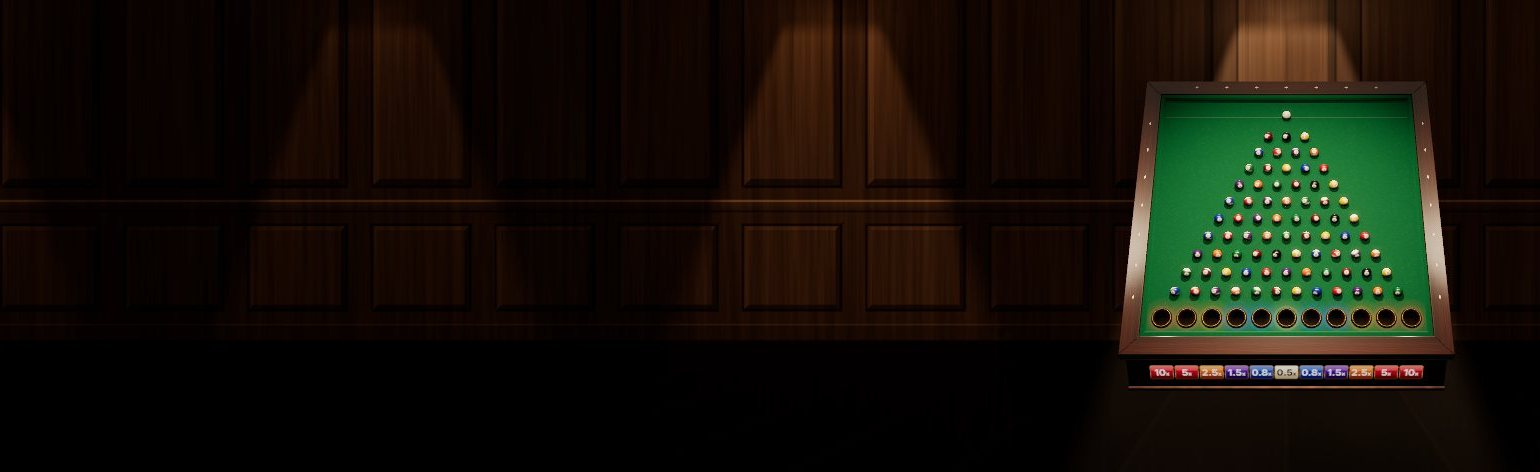
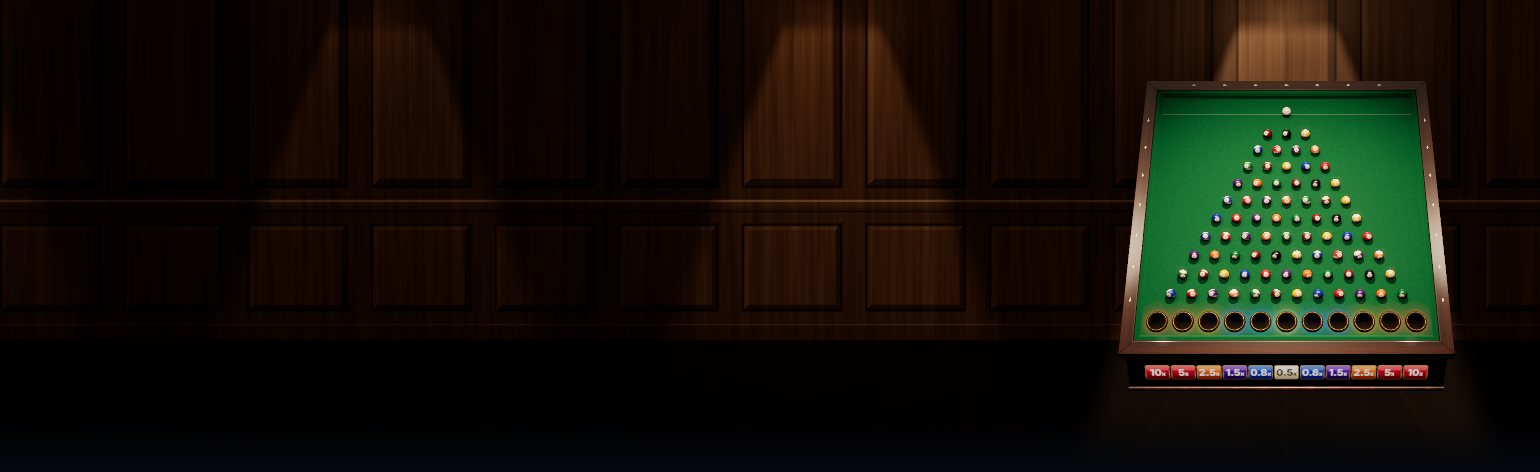
Widen the Plinko boards on phones with a 12px gutter for every title, slim Plinko Billiards' rails, drop the rows count from the risk menu, and remove the temporary Preview strip

Changed region(s): [[0.7169, 0.178, 0.9351, 0.7415], [0.7169, 0.7712, 0.9351, 0.8305]]

diff --git a/frontend/src/pages/GamePage.tsx b/frontend/src/pages/GamePage.tsx
@@ -145,31 +145,28 @@ export function GamePage() {
           </>
         }
         controls={
-          <>
-            <BetPanel
-              stakeMinor={stakeMinor}
-              setStakeMinor={setStakeMinor}
-              balance={wallet ? money(wallet.balance_minor, wallet.currency) : null}
-              currency={currency}
-              minMinor={limits.min_wager_minor}
-              maxMinor={limits.max_wager_minor}
-              stepMinor={limits.wager_step_minor}
-              session={module ? session : null}
-              paramsSlot={
-                module ? (
-                  <module.Controls
-                    params={session.params}
-                    onChange={session.setParams}
-                    disabled={!session.canChangeParams}
-                    board={session.board}
-                  />
-                ) : null
-              }
-              shortfall={shortfall}
-              onShortfall={setShortfall}
-            />
-            {module ? <EffectsPreview session={session} stakeMinor={stakeMinor} /> : null}
-          </>
+          <BetPanel
+            stakeMinor={stakeMinor}
+            setStakeMinor={setStakeMinor}
+            balance={wallet ? money(wallet.balance_minor, wallet.currency) : null}
+            currency={currency}
+            minMinor={limits.min_wager_minor}
+            maxMinor={limits.max_wager_minor}
+            stepMinor={limits.wager_step_minor}
+            session={module ? session : null}
+            paramsSlot={
+              module ? (
+                <module.Controls
+                  params={session.params}
+                  onChange={session.setParams}
+                  disabled={!session.canChangeParams}
+                  board={session.board}
+                />
+              ) : null
+            }
+            shortfall={shortfall}
+            onShortfall={setShortfall}
+          />
         }
       />
 
@@ -178,36 +175,6 @@ export function GamePage() {
       </div>
 
       <FairGameDialog open={fairGame} onClose={() => setFairGame(false)} session={module ? session : null} />
-    </div>
-  )
-}
-
-// Temporary: one button per payout on the chosen risk, each dropping a ball that no
-// round settled so the landing effects can be seen without a bet. Remove with
-// `previewDrop` in the game session.
-function EffectsPreview({ session, stakeMinor }: { session: GameSession; stakeMinor: number }) {
-  const payouts = session.board?.[session.params.risk]
-  if (!payouts) return null
-  const half = payouts.slice(0, Math.ceil(payouts.length / 2))
-
-  return (
-    <div
-      role="group"
-      aria-label="Preview landing effects"
-      className="mt-2 flex flex-wrap items-center gap-1.5 rounded-card border border-hairline-soft bg-inset px-2.5 py-2"
-    >
-      <span className="label-mono mr-1 text-[10px] text-ink-cool">Preview</span>
-      {half.map((hundredths, slot) => (
-        <Button
-          key={slot}
-          size="sm"
-          variant="secondary"
-          className="tnum"
-          onClick={() => session.previewDrop(Math.random() < 0.5 ? slot : payouts.length - 1 - slot, stakeMinor)}
-        >
-          {formatMultiplier(hundredths)}
-        </Button>
-      ))}
     </div>
   )
 }
@@ -221,7 +188,7 @@ function FairGameDialog({ open, onClose, session }: { open: boolean; onClose: ()
         {session && payouts ? (
           <div className="flex flex-col gap-2">
             <dt className="text-ink-mute">
-              Payouts · {session.params.rows} rows · {riskLabels[session.params.risk]}
+              Payouts · {riskLabels[session.params.risk]}
             </dt>
             <dd className="grid grid-cols-3 gap-1.5 min-[400px]:grid-cols-5">
               {payouts.map((hundredths, slot) => (

diff --git a/frontend/src/pages/GamePage.test.tsx b/frontend/src/pages/GamePage.test.tsx
@@ -71,7 +71,7 @@ async function untilDropped(post: ReturnType<typeof vi.spyOn>) {
 }
 
 function riskButton() {
-  return screen.getByRole('button', { name: /10 rows ·/ })
+  return screen.getByRole('button', { name: /^(Low|Normal|High)$/ })
 }
 
 function lastDrop(post: ReturnType<typeof vi.spyOn>) {
@@ -112,7 +112,7 @@ describe('the Plinko game page', () => {
     expect(configure.multipliers_hundredths).toEqual(plinkoManifest().multipliers_hundredths['10']?.normal)
     expect(configure.sound).toBe(true)
     expect(screen.queryByRole('status', { name: 'Loading Plinko' })).not.toBeInTheDocument()
-    expect(riskButton()).toHaveTextContent('10 rows · Normal')
+    expect(riskButton()).toHaveTextContent('Normal')
   })
 
   it('tells the frame where the board sits once it is ready', async () => {
@@ -173,7 +173,7 @@ describe('the Plinko game page', () => {
         window.location.origin,
       ),
     )
-    expect(riskButton()).toHaveTextContent('10 rows · High')
+    expect(riskButton()).toHaveTextContent('High')
     expect(window.localStorage.getItem('game.plinko.risk')).toBe('high')
   })
 
@@ -232,23 +232,6 @@ describe('the Plinko game page', () => {
     const loss = lastDrop(post)!
     expect(loss.multiplier_hundredths).toBeLessThan(100)
     expect(loss.result_label).toMatch(/^₱/)
-  })
-
-  it('previews a landing without placing a bet', async () => {
-    const user = userEvent.setup()
-    const { post } = await readyBoard()
-    const before = rounds.length
-    const preview = screen.getByRole('group', { name: 'Preview landing effects' })
-
-    await user.click(within(preview).getByRole('button', { name: '10.00×' }))
-
-    const drop = lastDrop(post)!
-    expect(drop.round_id).toMatch(/^preview-/)
-    expect(drop.multiplier_hundredths).toBe(1000)
-    expect([0, 10]).toContain(drop.slot)
-    expect(drop.result_label).toBe('+₱10.00')
-    expect(rounds).toHaveLength(before)
-    expect(wallets.find((wallet) => wallet.currency === 'PHP')!.balance_minor).toBe(startingBalance)
   })
 
   it('places a bet with the space bar', async () => {
@@ -351,7 +334,7 @@ describe('the Plinko game page', () => {
     const dialog = screen.getByRole('dialog', { name: 'Fair game' })
     expect(within(dialog).queryByText('95.00%')).not.toBeInTheDocument()
     expect(within(dialog).queryByText(/return to player/i)).not.toBeInTheDocument()
-    expect(within(dialog).getByText('Payouts · 10 rows · Normal')).toBeInTheDocument()
+    expect(within(dialog).getByText('Payouts · Normal')).toBeInTheDocument()
     expect(within(dialog).getAllByText(formatMultiplier(1000))).toHaveLength(2)
   })
 
@@ -371,7 +354,7 @@ describe('the Plinko game page', () => {
     vi.useFakeTimers({ shouldAdvanceTime: true })
     await openPlinko()
 
-    await vi.advanceTimersByTimeAsync(10_100)
+    await vi.advanceTimersByTimeAsync(30_100)
 
     expect(await screen.findByRole('alert')).toHaveTextContent('too long to respond')
     expect(screen.getByRole('button', { name: 'Try again' })).toBeInTheDocument()

diff --git a/frontend/src/features/gameplay/session.ts b/frontend/src/features/gameplay/session.ts
@@ -43,9 +43,6 @@ export type GameSession = {
   playing: boolean
   sound: boolean
   setSound: (enabled: boolean) => void
-  // Temporary: drops a ball into `slot` that no round settled, to show the frame's
-  // landing effects. Nothing is staked, paid, or sent to the server.
-  previewDrop: (slot: number, stakeMinor: number) => void
 }
 
 type GameSessionOptions = {
@@ -241,26 +238,6 @@ export function useGameSession({ module, slug, currency, onShortfall }: GameSess
     if (status === 'ready') bridgeRef.current?.send({ v: PROTOCOL_VERSION, type: 'set_sound', enabled: sound })
   }, [status, sound])
 
-  const previewDrop = useCallback(
-    (slot: number, stakeMinor: number) => {
-      const { params, status, boards } = latest.current
-      const multiplier = boards?.board[params.risk][slot]
-      if (status !== 'ready' || multiplier === undefined) return
-      const label = formatMoney(money(Math.floor((stakeMinor * multiplier) / 100), currency), {
-        sign: multiplier >= 100 ? 'always' : 'auto',
-      })
-      bridgeRef.current?.send({
-        v: PROTOCOL_VERSION,
-        type: 'drop',
-        round_id: `preview-${createUUID()}`,
-        slot,
-        multiplier_hundredths: multiplier,
-        result_label: label,
-      })
-    },
-    [currency],
-  )
-
   const play = useCallback(
     async (stakeMinor: number) => {
       const { status: frameStatus, module: active, params: current, boards: served } = latest.current
@@ -366,6 +343,5 @@ export function useGameSession({ module, slug, currency, onShortfall }: GameSess
     playing: playLocked,
     sound,
     setSound,
-    previewDrop,
   }
 }

diff --git a/frontend/src/pages/GamePage.live.test.tsx b/frontend/src/pages/GamePage.live.test.tsx
@@ -115,7 +115,7 @@ describe('Plinko against a server without the play endpoint', () => {
 
     expect(await screen.findByText("This game isn't available right now.")).toBeInTheDocument()
     expect(posted(post, 'drop')).toHaveLength(0)
-    expect(screen.getByRole('button', { name: /10 rows ·/ })).toBeEnabled()
+    expect(screen.getByRole('button', { name: /^(Low|Normal|High)$/ })).toBeEnabled()
     expect(screen.getByRole('button', { name: 'PLACE BET' })).toBeEnabled()
 
     const play = fetchMock.mock.calls.find(([, init]) => init?.method === 'POST')
@@ -264,7 +264,7 @@ describe('Plinko when the RTP changes mid-session', () => {
     await waitFor(() =>
       expect(queryClient.getQueryData(['game-manifest', 'plinko'])).toMatchObject({ rtp_basis_points: 10500 }),
     )
-    expect(screen.getByRole('button', { name: /10 rows ·/ })).toBeDisabled()
+    expect(screen.getByRole('button', { name: /^(Low|Normal|High)$/ })).toBeDisabled()
     expect(posted(post, 'configure')).toHaveLength(1)
 
     frameSays(iframe, { v: 3, type: 'landed', round_id: 'round-live-1', slot: 5 })

diff --git a/frontend/src/features/gameplay/RiskMenu.tsx b/frontend/src/features/gameplay/RiskMenu.tsx
@@ -5,7 +5,6 @@ import { cn } from '@/lib/cn'
 import { formatMultiplier } from '@/lib/format'
 
 import {
-  PLINKO_BOARD_ROWS,
   PLINKO_RISKS,
   riskLabels,
   summarizePlinko,
@@ -79,7 +78,7 @@ export function RiskMenu({ params, onChange, disabled, board }: GameControlsProp
           className="pop-enter glass-menu absolute right-0 bottom-[calc(100%+8px)] z-20 flex w-52 flex-col gap-0.5 rounded-input p-1.5"
         >
           <div data-part="risk-menu-head" className="px-2.5 pt-1.5 pb-1 font-mono text-[10px] tracking-[0.14em] text-ink-mute">
-            RISK · {PLINKO_BOARD_ROWS} ROWS
+            RISK
           </div>
           {PLINKO_RISKS.map((risk) => {
             const payouts = board?.[risk]

diff --git a/frontend/src/features/gameplay/registry.ts b/frontend/src/features/gameplay/registry.ts
@@ -37,7 +37,7 @@ function plinkoTitle(slug: string, options: PlinkoTitleOptions = {}): GameModule
     frameUrl: `/games/${slug}/index.html`,
     subtitle: 'RISK · PLAY · WIN',
     stageAspect: 10 / 11.2,
-    stageGutter: 44,
+    stageGutter: 12,
     titleOverlap: 0,
     defaultParams: DEFAULT_PLINKO_PARAMS,
     Controls: RiskMenu,
@@ -54,7 +54,6 @@ const gameModules: Readonly<Record<string, GameModule>> = {
   'plinko-billiards': plinkoTitle('plinko-billiards', { skin: true }),
   'plinko-tropical': plinkoTitle('plinko-tropical', {
     stageAspect: 0.98,
-    stageGutter: 12,
     titleOverlap: 30,
     TitleMark: TropicalTitleMark,
   }),

diff --git a/frontend/src/features/gameplay/multipliers.ts b/frontend/src/features/gameplay/multipliers.ts
@@ -21,7 +21,7 @@ export type PlinkoBoard = Record<PlinkoRisk, readonly number[]>
 export const riskLabels: Record<PlinkoRisk, string> = { low: 'Low', normal: 'Normal', high: 'High' }
 
 export function summarizePlinko(params: PlinkoParams): string {
-  return `${params.rows} rows · ${riskLabels[params.risk]}`
+  return riskLabels[params.risk]
 }
 
 // The supplied paytable, in integer hundredths (1.7× is 170). It is the demo fixture's

diff --git a/games/plinko-billiards/web/js/board/geometry.js b/games/plinko-billiards/web/js/board/geometry.js
@@ -26,7 +26,7 @@ export const CLOTH_HALF_WIDTH = 5.0
 export const CUSHION_WIDTH = 0.24
 export const CUSHION_HEIGHT = 0.27
 export const CUSHION_NOSE = 0.2
-export const RAIL_WIDTH = 0.62
+export const RAIL_WIDTH = 0.42
 export const RAIL_HEIGHT = 0.3
 export const RAIL_DEPTH = 0.36
 export const RAIL_BEVEL = 0.05

diff --git a/docs/frontend-pages.md b/docs/frontend-pages.md
@@ -34,7 +34,7 @@ on every page was traced to its adapter in `features/*/api.ts`.
 - [x] **Register** — `/register` (opens the real registration flow)
 - [x] **Forgot password** — `/forgot` (real indistinguishable reset request, including the explicitly unavailable delivery state)
 - [x] **Reset password** — `/reset` (real token confirmation, validation and invalid-link recovery; success installs the returned session and enters the application)
-- [x] **Game** — `/game/:slug` (authentication required; real game metadata, the game's own wallet, and under every title's board a history of the player's own recent rounds on that game; the favorite toggle writes `PUT`/`DELETE /api/games/{slug}/favorite` and re-reads the list. Plinko is the v24 design: a three.js glass board over a night-city backdrop fills the game zone, with the title row, the board's stage, and the bet panel laid over it in one centred column that fits the screen at every width and is only as tall as it needs, so round history follows straight after the bet panel; on a short screen such as a laptop the board takes the full height and the title row and bet panel stand in a side panel beside it; on phones the top bar stays while the bottom nav gives way, the title row and bet panel are compact, and the board narrows so the taglines stand beside it. It launches in the generic game host through the versioned bridge (protocol 3, whose stage `layout` also carries the rects the host's controls cover). The player plays the 10-row board with a Low / Normal / High risk menu and a stake stepper that walks a 1-2-5 ladder of stakes the server accepts; Space places a bet and FAIR GAME shows the payouts of the board in play from the manifest, never the return. Temporarily, a Preview strip under the bet panel offers one button per payout of the chosen risk; each drops a ball into that payout's slot through the bridge with a `preview-` round id, labelled for the current stake, so the landing effects can be seen without a bet: no request is made, nothing is staked or paid, and the frame's `landed` for it settles nothing. Place bet calls `POST /api/games/{slug}/rounds`, which the server settles through the Plinko engine at the return the operator set before the ball is dropped; component tests use a deterministic fixture. A server without an engine for the slug answers 404 and the page reports the game as not available. The board is configured from `GET /api/games/{slug}/manifest`, the table of the return in force: until it loads the frame stays hidden behind the loading state, a miniature peg board a ball drops through (static under reduced motion), and fades in once ready; a 404 or 409 is the frame's error state with a retry, and Place bet is disabled in both; a round settled at a different return than the manifest's refetches it and the board is reconfigured once no ball is in flight. Plinko Billiards is the same game in its own frame: the identical host, bet panel, engine, and board, drawn as a billiard table with a rack of pool balls for pegs and enamelled payout plates under eleven pockets; its controls wear the table's materials through a declared skin (a mahogany-railed felt panel, a brass balance plate, an ivory risk chip, cue-ball steppers, and leather title-row buttons) while the play button stays the platform's; it keeps its own catalogue entry, rounds, history, and return. Plinko Tropical is the same game again in its own frame: the identical bet panel, engine, and board, drawn as a slate board with a gold and steel rim of warm bulbs, a lit glass chute, mirror pegs, and square backlit payout tiles wall to wall along its foot, in front of a sunlit terrace whose signboard carries the right brand line; its stage nearly fills a phone's width and tucks under the title row, where a declared title mark sets the name as a brush-script PLINKO logo over a swash with the subtitle arched beneath it, while the heading keeps the full name; it keeps its own catalogue entry, rounds, history, and return. Every other title has no engine on the server, so it keeps the display-slot placeholder and a round would answer `404`)
+- [x] **Game** — `/game/:slug` (authentication required; real game metadata, the game's own wallet, and under every title's board a history of the player's own recent rounds on that game; the favorite toggle writes `PUT`/`DELETE /api/games/{slug}/favorite` and re-reads the list. Plinko is the v24 design: a three.js glass board over a night-city backdrop fills the game zone, with the title row, the board's stage, and the bet panel laid over it in one centred column that fits the screen at every width and is only as tall as it needs, so round history follows straight after the bet panel; on a short screen such as a laptop the board takes the full height and the title row and bet panel stand in a side panel beside it; on phones the top bar stays while the bottom nav gives way, the title row and bet panel are compact, and the board nearly fills the width, its taglines showing only where a gutter holds them. It launches in the generic game host through the versioned bridge (protocol 3, whose stage `layout` also carries the rects the host's controls cover). The player plays the 10-row board, with no rows choice, through a Low / Normal / High risk menu and a stake stepper that walks a 1-2-5 ladder of stakes the server accepts; Space places a bet and FAIR GAME shows the payouts of the board in play from the manifest, never the return. Place bet calls `POST /api/games/{slug}/rounds`, which the server settles through the Plinko engine at the return the operator set before the ball is dropped; component tests use a deterministic fixture. A server without an engine for the slug answers 404 and the page reports the game as not available. The board is configured from `GET /api/games/{slug}/manifest`, the table of the return in force: until it loads the frame stays hidden behind the loading state, a miniature peg board a ball drops through (static under reduced motion), and fades in once ready; a 404 or 409 is the frame's error state with a retry, and Place bet is disabled in both; a round settled at a different return than the manifest's refetches it and the board is reconfigured once no ball is in flight. Plinko Billiards is the same game in its own frame: the identical host, bet panel, engine, and board, drawn as a slim-railed billiard table with a rack of pool balls for pegs and enamelled payout plates under eleven pockets; its controls wear the table's materials through a declared skin (a mahogany-railed felt panel, a brass balance plate, an ivory risk chip, cue-ball steppers, and leather title-row buttons) while the play button stays the platform's; it keeps its own catalogue entry, rounds, history, and return. Plinko Tropical is the same game again in its own frame: the identical bet panel, engine, and board, drawn as a slate board with a gold and steel rim of warm bulbs, a lit glass chute, mirror pegs, and square backlit payout tiles wall to wall along its foot, in front of a sunlit terrace whose signboard carries the right brand line; its stage tucks under the title row, where a declared title mark sets the name as a brush-script PLINKO logo over a swash with the subtitle arched beneath it, while the heading keeps the full name; it keeps its own catalogue entry, rounds, history, and return. Every other title has no engine on the server, so it keeps the display-slot placeholder and a round would answer `404`)
 - [x] **Wallet** — `/wallet` (authentication required; a centred real balance with Deposit and Cash out beneath it and the currency switch sheet at the card's top right; Activity, Withdrawals, and Deposits tabs: the active wallet's recent ledger, then every withdrawal and every deposit request with its status, each opening its status page, with the pending count on each request tab)
 - [x] **Deposit** — `/wallet/deposit` (real methods, limits, proof upload, and submission)
 - [x] **Deposit status** — `/wallet/deposit/:id` (real player-owned request; no cancellation)

diff --git a/.claude/rules/games/plinko-billiards.md b/.claude/rules/games/plinko-billiards.md
@@ -33,7 +33,7 @@ A card with the deep panel shadow, 12px padding and 10px internals (10px and 8px
 
 - **Balance row:** a 42px wallet tile (40px under 640, hidden under 380px), the `BALANCE`
   micro-label, and the balance in 18 · 500 `tnum` (16 under 640); the risk menu to its right.
-- **Risk menu:** a 42px secondary glass control (40 under 640) reading `10 rows · Normal`,
+- **Risk menu:** a 42px secondary glass control (40 under 640) reading `Normal`,
   with a sliders icon from 430px; its menu lists the three risks with each one's payout
   range.
 - **Stake and play:** the stepper (`field`, ± cells, stake in 18 · 500 `tnum`, 15 under
@@ -66,7 +66,7 @@ A pool hall fills the whole game area behind the column and belongs to this page
 dark panelled mahogany walls with a chair rail, wainscot, and baseboard over a dark plank
 floor, under a row of warm hanging lamps, the brightest over the table. The hall keeps
 its scale beside the table, so a wider screen shows more of it. In front of it a billiard
-table leans back over an upright mahogany apron: green cloth, cushions, varnished rails
+table leans back over an upright mahogany apron: green cloth, cushions, slim varnished rails
 with pearl sights, a rack of numbered pool balls in ten rows, the cue ball on the head
 spot, and eleven leather pockets with brass lips along the foot cushion. Each pocket's
 payout is an enamelled plate in a brass bezel on the apron.
@@ -78,7 +78,7 @@ in the side panel layout, nothing fades.
 ## Brand lines
 
 `GOOD PLAYERS BET BETTER` in the left gutter and `SAME GAME BIGGER VIEWS` in the right,
-placed by `js/ui.js`, with a 44px `stageGutter` kept for them on narrow screens, and hidden
+placed by `js/ui.js`, with a 12px `stageGutter` on narrow screens, and hidden
 when a gutter cannot hold them clear of the table and the host's controls. They and the
 subtitle are brand art, never extended into explanatory text.
 

diff --git a/.claude/rules/games/plinko.md b/.claude/rules/games/plinko.md
@@ -33,7 +33,7 @@ A `glass-panel` card with the deep panel shadow, 12px padding and 10px internals
 
 - **Balance row:** a 42px wallet tile (40px under 640, hidden under 380px), the `BALANCE`
   micro-label, and the balance in 18 · 500 `tnum` (16 under 640); the risk menu to its right.
-- **Risk menu:** a 42px secondary glass control (40 under 640) reading `10 rows · Normal`,
+- **Risk menu:** a 42px secondary glass control (40 under 640) reading `Normal`,
   with a sliders icon from 430px; its menu lists the three risks with each one's payout
   range.
 - **Stake and play:** the stepper (`field`, ± cells, stake in 18 · 500 `tnum`, 15 under
@@ -61,7 +61,7 @@ in the side panel layout, nothing fades.
 ## Brand lines
 
 `GOOD PLAYERS BET BETTER` in the left gutter and `SAME GAME BIGGER VIEWS` in the right,
-placed by `js/ui.js`, with a 44px `stageGutter` kept for them on narrow screens, and hidden
+placed by `js/ui.js`, with a 12px `stageGutter` on narrow screens, and hidden
 when a gutter cannot hold them clear of the glass and the host's controls. Where the tall
 backdrop shows, `GOOD PLAYERS BET BETTER` is the line painted on its pillar, and the
 frame's own left tagline is not drawn. They and the

diff --git a/docs/games/plinko-tropical-runtime.md b/docs/games/plinko-tropical-runtime.md
@@ -14,7 +14,7 @@ protocol, the host, and the round lifecycle are in `plinko-runtime.md` and
 | `backend/internal/app/app.go` | `plinko-tropical` in `round.Engines`, mapped to `plinko.New()` |
 | `backend/cmd/seed/catalogue.go` | The catalogue row, integrated at 95% when absent |
 | `frontend/vite.config.ts` | The frame served at `/games/plinko-tropical/` |
-| `frontend/src/features/gameplay/registry.ts` | Its module: the Plinko board and risk menu, its own frame URL, `stageAspect` 0.98, `stageGutter` 12, `titleOverlap` 30, and `TitleMark` |
+| `frontend/src/features/gameplay/registry.ts` | Its module: the Plinko board and risk menu, its own frame URL, `stageAspect` 0.98, `titleOverlap` 30, and `TitleMark` |
 | `frontend/src/features/gameplay/TropicalTitleMark.tsx` | The title mark: the heading named in full, the logo lettering and swash, and the arched subtitle |
 | `frontend/src/styles/games/plinko-tropical.css` | The mark's styles, scoped to `[data-title-mark='plinko-tropical']`, and its Kaushan Script face, subset to the letters of `PLINKO` and fetched only when the mark draws them |
 | `frontend/src/assets/fonts/kaushan-script-plinko.woff2` | That subset, under 3 KB, beside its OFL licence |
